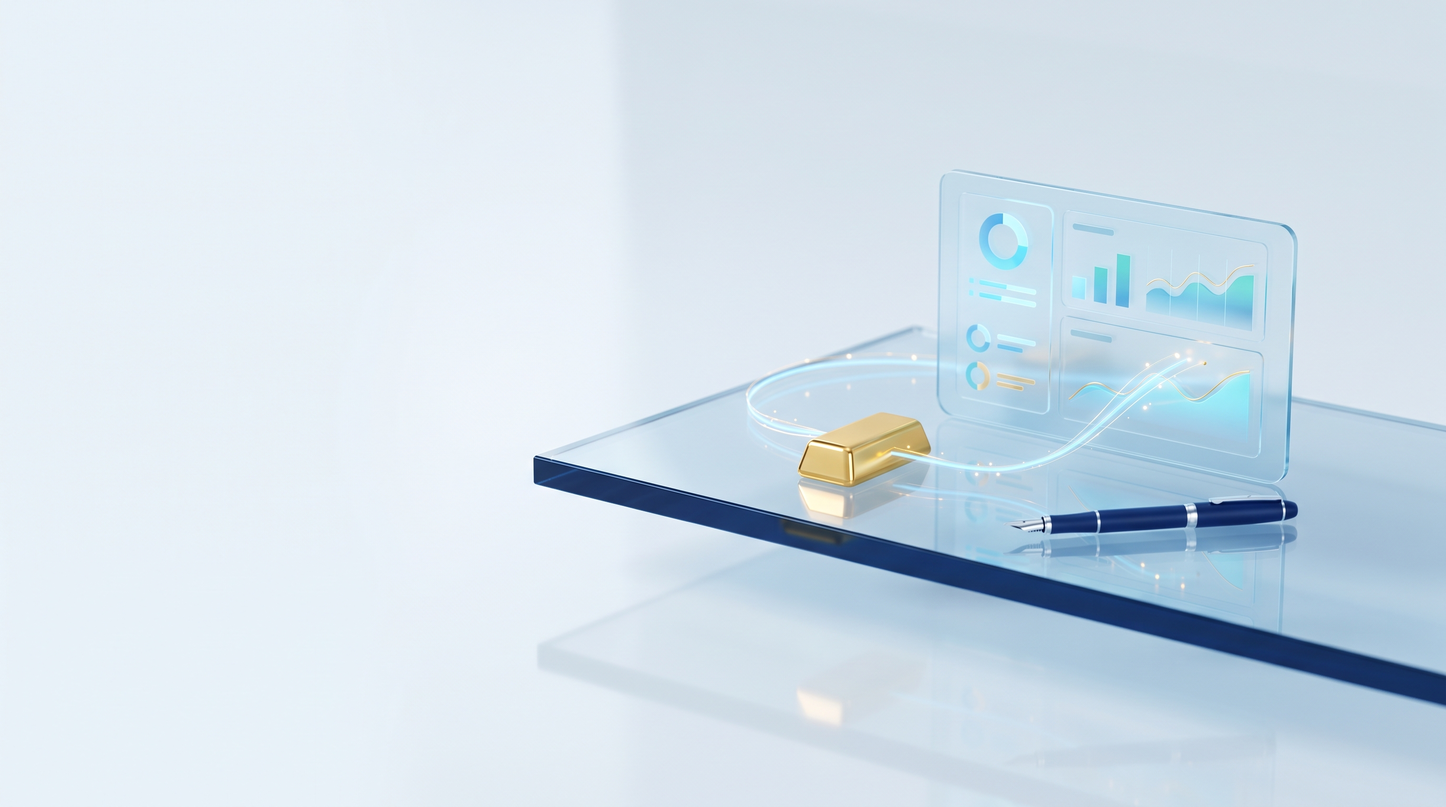
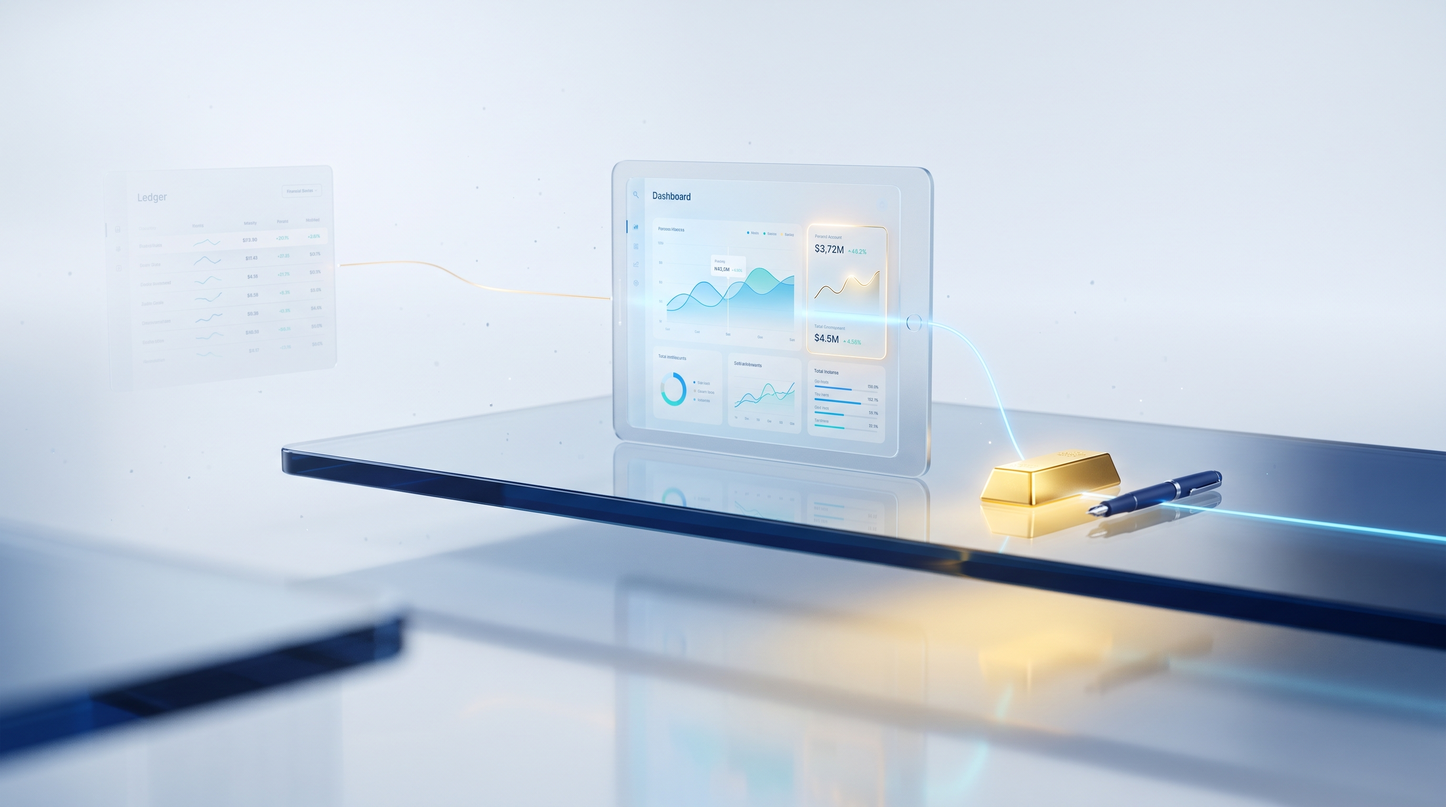
Update LifecycleStrip component and image assets for improved visuals
- Adjusted the aspect ratio and width of the right-side visual in the LifecycleStrip component for better layout.
- Replaced several images in the lifecycle content with more relevant visuals, enhancing the overall presentation.
- Removed outdated image files to streamline the asset library.

diff --git a/lib/content/home.ts b/lib/content/home.ts
@@ -58,14 +58,14 @@ export const lifecycle = {
       word: "Mine",
       sentence:
         "Sourcing, doré flows and the first mile of provenance - structured and accountable from the smallest artisanal lot to the largest consignment.",
-      image: "/images/home/Abstract_gold_mine_with_gold.jpeg",
+      image: "/images/home/Earth_slab_with_gold_veins.jpeg",
       imageAlt: "Abstract render of a gold mine with a raw gold nugget at its center",
     },
     {
       word: "Refine",
       sentence:
         "Purity, assay, production and recovery, tracked with full traceability through every stage.",
-      image: "/images/home/Molten_gold_pouring_in_studio.jpeg",
+      image: "/images/home/Molten_gold_pouring_into_mold.jpeg",
       imageAlt: "Molten gold pouring from a crucible into a mold on a refinery line",
     },
     {
@@ -79,14 +79,14 @@ export const lifecycle = {
       word: "Store",
       sentence:
         "Vaulting, custody and allocation across allocated and unallocated metal, with serial-level control.",
-      image: "/images/home/Gold_bars_in_vault.jpeg",
+      image: "/images/home/Gold_bars_in_vault_interior.jpeg",
       imageAlt: "Shelves of gold bars inside a secure vault with a circular vault door",
     },
     {
       word: "Finance",
       sentence:
         "Treasury, settlement and institutional-grade financial control built on metal-aware accounting.",
-      image: "/images/home/Abstract_finance_scene_with_tablet.jpeg",
+      image: "/images/home/Abstract_corporate_finance_scene.jpeg",
       imageAlt: "A gold bar and pen beside a glass panel showing financial dashboards",
     },
     {

diff --git a/components/sections/home/LifecycleStrip.tsx b/components/sections/home/LifecycleStrip.tsx
@@ -217,7 +217,7 @@ export default function LifecycleStrip() {
                 {/* Right-side visual */}
                 <div
                   aria-hidden
-                  className="group relative ml-auto aspect-[4/5] w-[20vw] max-w-xs shrink-0 overflow-hidden rounded-2xl border border-ink/10 bg-white"
+                  className="group relative ml-auto aspect-[16/10] w-[28vw] max-w-md shrink-0 overflow-hidden rounded-2xl border border-ink/10 bg-white"
                 >
                   <Image
                     src={stage.image}
